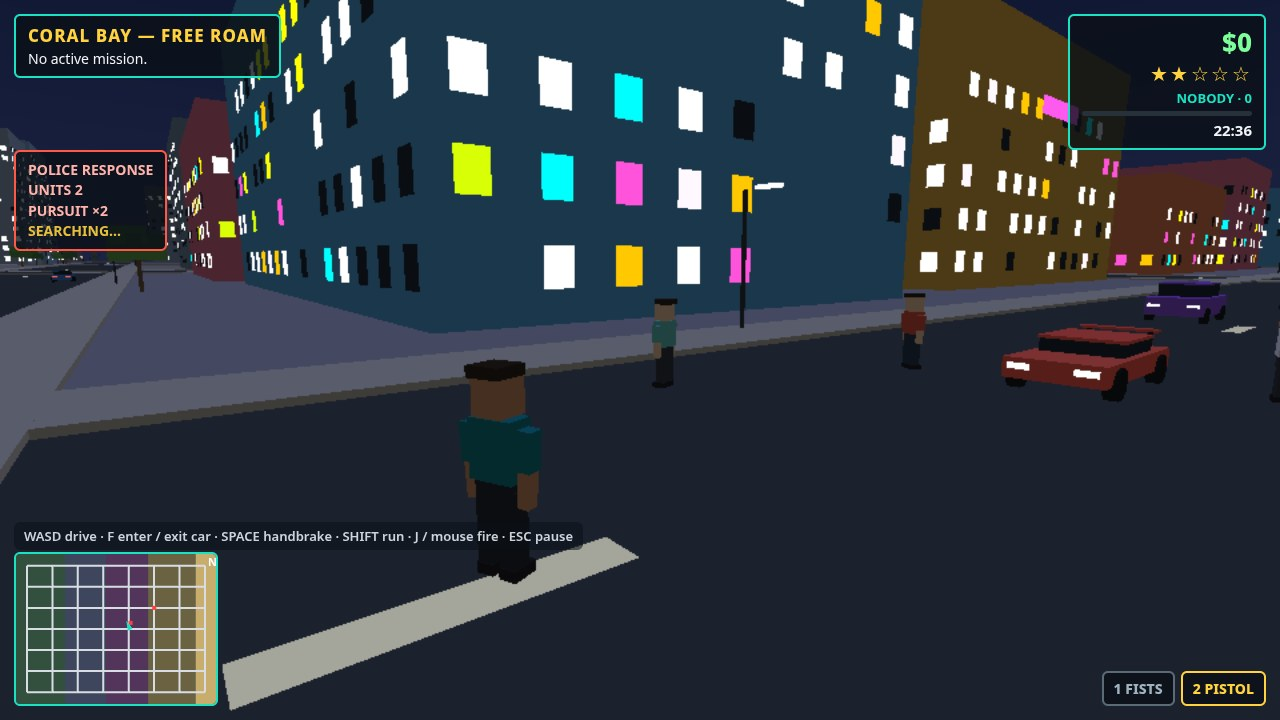
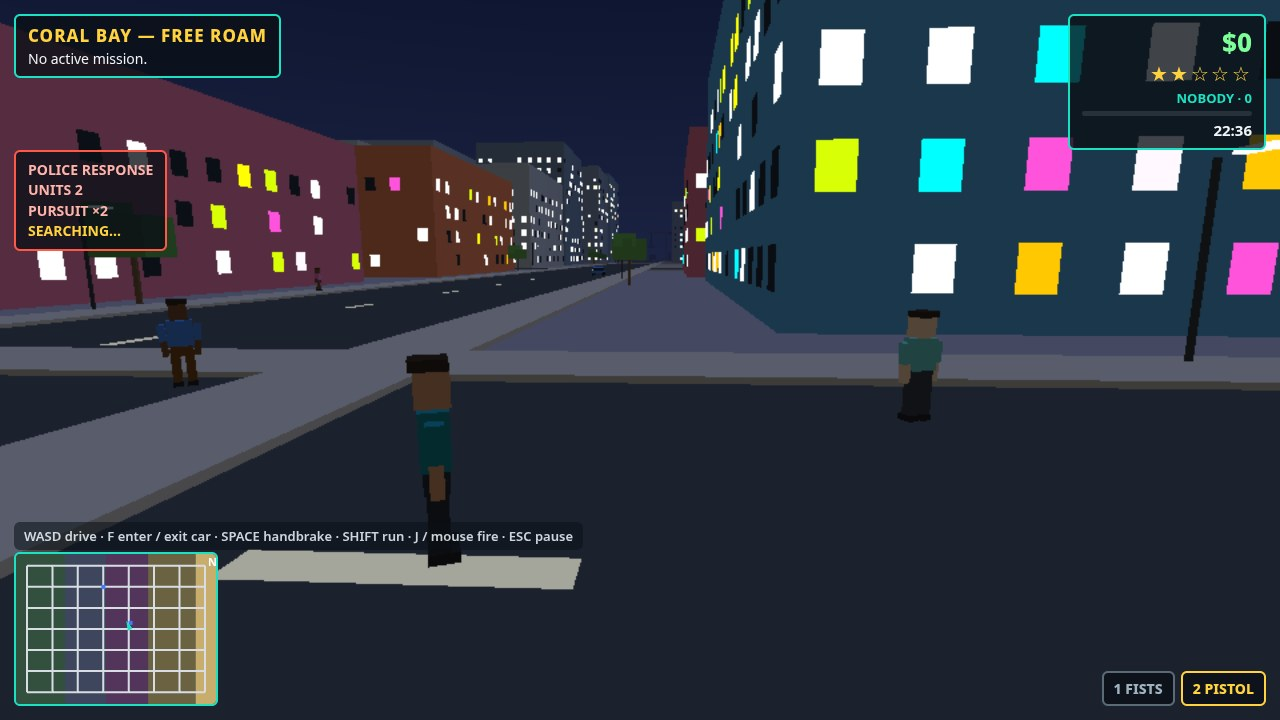
F4R-S6: golden-hour grade, cover/chase staging, menu backdrop (rebuild polish)

diff --git a/game/src/shots3d.js b/game/src/shots3d.js
@@ -63,6 +63,21 @@
     h.x = px + dx; h.z = pz + dz; h.y = 38;
     h.tx = px; h.tz = pz; // searchlight cone + pool on the player
   }
+  /* Place a live traffic car on the road-graph segment between the two
+     given intersections, s metres along it in direction dir (+1 a->b). */
+  function placeTraffic(i, ax, az, bx, bz, s, dir) {
+    var segs = CoralCity.roads.segments, tc = Coral3D.traffic.cars[i];
+    if (!tc) return;
+    for (var k = 0; k < segs.length; k++) {
+      var sg = segs[k];
+      if ((sg.ax === ax && sg.az === az && sg.bx === bx && sg.bz === bz) ||
+          (sg.ax === bx && sg.az === bz && sg.bx === ax && sg.bz === az)) {
+        tc.seg = k; tc.dir = dir; tc.s = s; tc.speed = 0;
+        CoralTraffic.sync(tc);
+        return;
+      }
+    }
+  }
   function freeze() {
     window.__shotFrozen = true;
     return delay(450).then(function () { window.__shotReady = true; });
@@ -87,8 +102,11 @@
 
   function stageCover() {
     Coral3D.startMission(1); // mission panel live (M1 First Fare)
-    Coral3D.teleport(375, 46); // Marina boulevard, avenue x=375
-    car().heading = 0; // north, camera settles behind looking down the boulevard
+    // Marina seafront street (z=0) heading EAST toward the beach/sea:
+    // low, tight chase cam with the shore filling the frame ahead.
+    window.__shotCam = { dist: 10.5, height: 3.6, lookY: 1.5 };
+    Coral3D.teleport(462, 0);
+    car().heading = -Math.PI / 2; // east, camera behind looking at the sea edge
     Coral3D.setTime(17.8); // golden hour
     return delay(900).then(function () {
       Coral3D.setWanted(4); // AIR ONE + 4 units
@@ -96,17 +114,22 @@
         return activeUnits().length >= 3 && CoralPolice.heliActive;
       }, 15000, 'cover heat');
     }).then(function () {
-      var u = activeUnits();
-      placeUnit(u[0], 370, 26, 0.25);
-      placeUnit(u[1], 381, 18, -0.2);
-      placeUnit(u[2], 368, 70, 0.1); // pursuer in the rear-view edge
-      placePeds([[384, 30], [387, 44], [383, 58], [388, 20], [385, 66]]);
-      Coral3D.setTime(17.8);
       // A few live ticks with units in sight of the player: the police
-      // update flips visible=true (response panel leaves SEARCHING) and
-      // AIR ONE's own orbit puts its searchlight cone on the player.
+      // update flips visible=true (response panel leaves SEARCHING).
       return delay(600);
     }).then(function () {
+      // Final placements (frame freezes immediately after, nothing drifts):
+      var u = activeUnits();
+      placeUnit(u[0], 478, -6, -Math.PI / 2 + 0.35);   // ahead-quarter, seaward lane
+      placeUnit(u[1], 461.5, 5.2, -Math.PI / 2 + 0.3);  // behind-quarter, right shoulder
+      placeUnit(u[2], 486, 5, -Math.PI / 2 - 0.3);      // second car ahead
+      aimHeli(462, 0, 19, -7);                           // AIR ONE upper frame, cone on player
+      CoralPolice.heliState.y = 13;
+      CoralPolice.heliState.heading = 2.2;
+      placeTraffic(0, 375, 0, 525, 0, 120, 1);  // eastbound ahead of the player
+      placeTraffic(1, 375, 0, 525, 0, 20, -1);  // westbound, oncoming lane
+      placePeds([[533, -14], [537, 6], [534, 18], [531, -26],   // boardwalk crowd
+                 [478, 10.5], [495, -10.5], [448, -10.5]]);      // near sidewalks
       Coral3D.setTime(17.8);
       return freeze();
     });
@@ -148,10 +171,17 @@
       if (car()) { car().heading = 0; car().speed = 9; }
       return CoralPolice.blockCars && CoralPolice.blockCars.length > 0;
     }, 45000, 'roadblock').then(function () {
+      // Close up on the real roadblock: player 27 m short of the two
+      // angled block cars, pursuit unit behind, AIR ONE cone overhead.
+      window.__shotCam = { dist: 9, height: 3.4, lookY: 1.6 };
+      var bc = CoralPolice.blockCars;
+      var bcx = (bc[0].x + bc[1].x) / 2, bcz = (bc[0].z + bc[1].z) / 2;
+      Coral3D.teleport(bcx, bcz + 27);
+      car().heading = 0;
       var u = activeUnits();
-      placeUnit(u[0], 219, -8, 0.15);
-      placeUnit(u[1], 232, -14, -0.15);
-      aimHeli(anchor.x, anchor.z, 14, 18);
+      placeUnit(u[0], bcx - 4, bcz + 40, 0.1);  // pursuit car behind
+      placeUnit(u[1], bcx + 5, bcz + 45, -0.1); // second pursuer
+      aimHeli(bcx, bcz + 27, 16, -18);
       if (car()) car().speed = 26; // ~94 km/h readout on the frozen HUD
       Coral3D.setTime(19.35);
       return freeze();
@@ -159,6 +189,8 @@
       // No roadblock in the window: still deliver the climax frame
       // (5 stars, AIR ONE cone, full response) and say so in describe.
       window.__shotNote = String(err && err.message || err);
+      window.__shotCam = { dist: 9, height: 3.4, lookY: 1.6 };
+      aimHeli(anchor.x, anchor.z, 16, -18);
       if (car()) car().speed = 26;
       return freeze();
     });
@@ -168,10 +200,18 @@
     // STATS over the live city: 3/5 missions, respect 60, money $2,050
     // -> completion = 36 + 15 + 9 = 60% by the menus3d formula.
     CoralMissions.restore({ money: 2050, respect: 60, completedCount: 3 });
-    Coral3D.teleport(300, 20);
-    if (car()) car().heading = 0;
-    Coral3D.setTime(16.6);
+    // Lively golden-hour backdrop: Marina seafront street heading east,
+    // player car + traffic + palms + peds behind the translucent panel.
+    window.__shotCam = { dist: 12, height: 5, lookY: 1.6 };
+    Coral3D.teleport(462, 0);
+    if (car()) car().heading = -Math.PI / 2;
+    Coral3D.setTime(17.8);
     return delay(700).then(function () {
+      placeTraffic(0, 375, 0, 525, 0, 120, 1);  // eastbound ahead
+      placeTraffic(1, 375, 0, 525, 0, 20, -1);  // westbound oncoming
+      placeTraffic(2, 375, 0, 525, 0, 140, 1);  // far eastbound near the shore
+      placePeds([[478, 10.5], [495, -10.5], [448, -10.5], [533, -14], [537, 6]]);
+      Coral3D.setTime(17.8);
       Coral3D.state = 'pause'; // menus3d shows the STATS panel
       return freeze();
     });
@@ -182,6 +222,11 @@
     car().heading = 0;
     Coral3D.setTime(6.7);
     return delay(900).then(function () {
+      // Dawn life: a northbound car ahead, a southbound car alongside,
+      // peds on both sidewalks (the city's parked row lines the kerbs).
+      placeTraffic(0, 375, -125, 375, 0, 55, -1); // northbound, ahead
+      placeTraffic(1, 375, -125, 375, 0, 95, 1);  // southbound, alongside
+      placePeds([[364.6, -48], [385.4, -58], [364.6, -70], [385.4, -20], [364.6, -14]]);
       if (car()) car().speed = 17; // rolling wide shot
       Coral3D.setTime(6.7);
       return freeze();

diff --git a/game/src/city3d.js b/game/src/city3d.js
@@ -142,7 +142,8 @@ var DAY_STOPS = [
   { h: 7.0, sky: [0.34, 0.54, 0.84], hor: [0.99, 0.66, 0.42], fog: [0.86, 0.63, 0.49], sun: [0.95, 0.62, 0.38], amb: 0.46, emis: 1.05 },
   { h: 10.0, sky: [0.29, 0.59, 0.95], hor: [0.74, 0.87, 0.98], fog: [0.71, 0.82, 0.91], sun: [1.02, 0.99, 0.92], amb: 0.56, emis: 0.45 },
   { h: 16.5, sky: [0.29, 0.59, 0.95], hor: [0.74, 0.87, 0.98], fog: [0.71, 0.82, 0.91], sun: [1.02, 0.99, 0.92], amb: 0.56, emis: 0.45 },
-  { h: 18.3, sky: [0.31, 0.48, 0.84], hor: [1.00, 0.61, 0.31], fog: [0.90, 0.63, 0.44], sun: [1.08, 0.60, 0.29], amb: 0.48, emis: 0.95 },
+  { h: 18.3, sky: [0.36, 0.30, 0.62], hor: [0.98, 0.52, 0.26], fog: [0.66, 0.38, 0.30], sun: [0.95, 0.48, 0.22], amb: 0.42, emis: 1.0 },
+  { h: 19.2, sky: [0.16, 0.16, 0.42], hor: [0.62, 0.30, 0.34], fog: [0.36, 0.24, 0.32], sun: [0.55, 0.33, 0.36], amb: 0.38, emis: 1.5 },
   { h: 19.8, sky: [0.11, 0.15, 0.37], hor: [0.54, 0.29, 0.37], fog: [0.29, 0.23, 0.33], sun: [0.42, 0.34, 0.44], amb: 0.37, emis: 1.7 },
   { h: 21.0, sky: [0.04, 0.07, 0.17], hor: [0.13, 0.16, 0.29], fog: [0.09, 0.11, 0.21], sun: [0.30, 0.36, 0.52], amb: 0.34, emis: 2.0 },
   { h: 24.0, sky: [0.04, 0.07, 0.17], hor: [0.13, 0.16, 0.29], fog: [0.09, 0.11, 0.21], sun: [0.30, 0.36, 0.52], amb: 0.34, emis: 2.0 }
@@ -170,7 +171,7 @@ function updateDay(hour) {
   var dayT = (hour - 6) / 12, ang = Math.PI * dayT;
   var sx = Math.cos(ang), sy = Math.sin(ang) * 0.92 + 0.04, sz = 0.32;
   var sunCol = lerp3(a.sun, b.sun, t);
-  if (sy > 0.10) {
+  if (sy > 0.02) {
     var l = Math.hypot(sx, sy, sz);
     DayState.sunDir = [sx / l, sy / l, sz / l];
     DayState.sunColor = sunCol;

diff --git a/tools/capture-shots.js b/tools/capture-shots.js
@@ -4,9 +4,9 @@
 // no packages), waits for game/src/shots3d.js to stage + freeze the
 // scene (window.__shotReady), logs window.__shotDescribe(), and saves
 // a 1280x720 JPEG. The three entry shots land in screenshots/; the
-// two 4th-shot candidates (4-menu, 4-alt) land in /tmp/f4r-candidates/
+// two 4th-shot candidates (4-menu, 4-alt) land in /tmp/f4r-candidates2/
 // for the coordinator to pick between. 768px-wide previews of all
-// five frames go to /tmp/f4r-previews/ (via python3/PIL).
+// five frames go to /tmp/f4r-previews2/ (via python3/PIL).
 // A quality loop guarantees every JPEG is <= 256 KiB.
 // Run: node tools/capture-shots.js [--shot 1-cover]
 const http = require('node:http');
@@ -16,8 +16,8 @@ const { spawn, execFileSync } = require('node:child_process');
 
 const root = path.resolve(__dirname, '../game');
 const shotsDir = path.resolve(__dirname, '../screenshots');
-const candDir = '/tmp/f4r-candidates';
-const prevDir = '/tmp/f4r-previews';
+const candDir = '/tmp/f4r-candidates2';
+const prevDir = '/tmp/f4r-previews2';
 const MAX_BYTES = 262144; // 256 KiB
 const onlyShot = process.argv.includes('--shot') ? process.argv[process.argv.indexOf('--shot') + 1] : null;
 const delay = ms => new Promise(resolve => setTimeout(resolve, ms));

diff --git a/game/src/police3d.js b/game/src/police3d.js
@@ -84,10 +84,10 @@ var CoralPolice = (function () {
     }
     heliMesh = CoralBakers.heli(gl, 0xf2f4f6);
     var cb = new Baker();
-    cb.cone(0xfff2b0, { x: 0, y: 0, z: 0, r: 13, h: 38, seg: 12, emis: 0.55 });
+    cb.cone(0x3d331f, { x: 0, y: 0, z: 0, r: 6.5, h: 38, seg: 12, emis: 0.20 });
     coneMesh = cb.build(gl);
     var pb = new Baker();
-    pb.cylinder(0xfff6c4, { x: 0, y: 0, z: 0, r: 12, h: 0.12, seg: 14, emis: 0.8 });
+    pb.cylinder(0xa8945e, { x: 0, y: 0, z: 0, r: 4.2, h: 0.12, seg: 14, emis: 0.26 });
     poolMesh = pb.build(gl);
     var sb = new Baker();
     sb.plane(0x0a0c10, { x: 0, y: 0, z: 0, w: 11, d: 11, emis: 0 });
@@ -303,7 +303,7 @@ var CoralPolice = (function () {
       // additive searchlight cone + ground pool, depth-write off
       gl.enable(gl.BLEND);
       gl.blendFunc(gl.ONE, gl.ONE);
-      R.draw(coneMesh, Mat4.compose(heliState.tx, 19, heliState.tz, 0, 0, 0), { noDepthWrite: true, noCull: true });
+      R.draw(coneMesh, Mat4.compose(heliState.tx, 19, heliState.tz, 0, 0, 0), { noDepthWrite: true });
       R.draw(poolMesh, Mat4.compose(heliState.tx, 0.1, heliState.tz, 0, 0, 0), { noDepthWrite: true });
       gl.disable(gl.BLEND);
     }

diff --git a/game/src/main3d.js b/game/src/main3d.js
@@ -203,6 +203,9 @@
       var spd = Math.abs(f.speed);
       dist = 10.5 + spd * 0.16; height = 4.9 + spd * 0.045; lookY = 1.7;
     } else { dist = 6.5; height = 2.8; lookY = 1.45; }
+    if (window.__shotCam && mode === 'car') { // screenshot staging override (shots3d.js)
+      dist = window.__shotCam.dist; height = window.__shotCam.height; lookY = window.__shotCam.lookY;
+    }
     var tx = f.x - fx * dist, tz = f.z - fz * dist;
     var k = snapCam ? 1 : 1 - Math.exp(-dt * 3.6);
     camPos[0] += (tx - camPos[0]) * k;

diff --git a/README.md b/README.md
@@ -24,12 +24,9 @@ mkdir -p out && MAKEFUN_OUTPUT_DIR=out node main.ts
 
 ## Controls
 
-- **WASD / arrow keys** — move / drive
-- **Shift** — run
-- **E** — enter / exit a car
-- **Space** — handbrake in a car (fire on foot)
-- **Mouse** — aim / fire
-- **F** — punch
-- **H** — missions / activities
-- **P** — pause
-- **M** — mute
+- **WASD / arrow keys** — drive / move
+- **F** — enter / exit a car
+- **Space** — handbrake
+- **Shift** — run (on foot)
+- **Mouse / J** — fire (on foot)
+- **Esc / P** — pause
